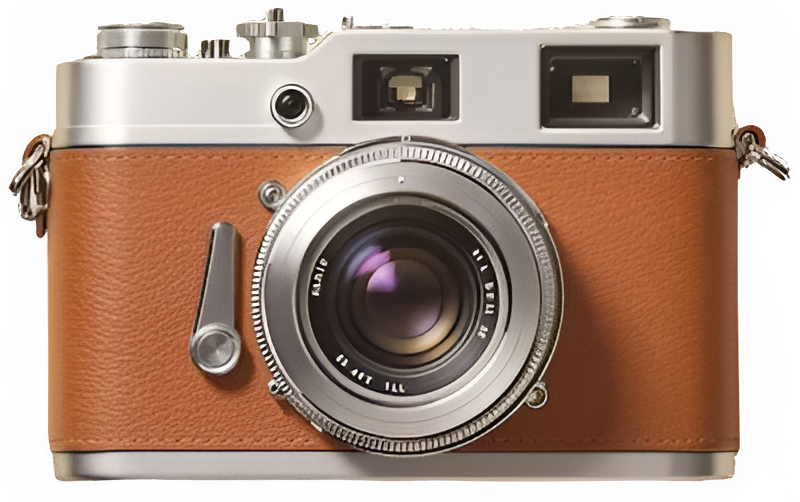
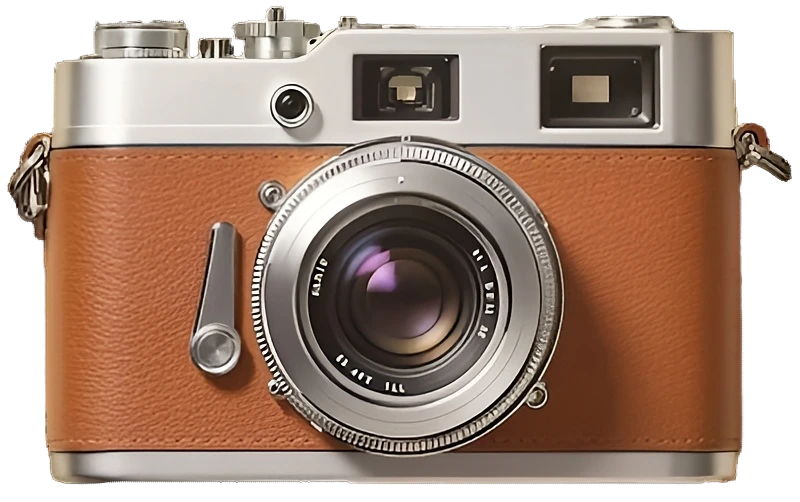
16:27

diff --git a/src/assets/Components/Landing.jsx b/src/assets/Components/Landing.jsx
@@ -26,15 +26,17 @@ function Landing() {
 
     // Initialize Lenis smooth scrolling
     const lenis = new Lenis({
-      duration: 1.2,
-      easing: (t) => Math.min(1, 1.001 - Math.pow(2, -10 * t)),
+      duration: 2.3,
+      easing: (t) => Math.min(1, 1.001 - Math.pow(2, -8 * t)),
       direction: 'vertical',
       gestureDirection: 'vertical',
       smooth: true,
-      mouseMultiplier: 1,
+      mouseMultiplier: 0.8,
       smoothTouch: false,
-      touchMultiplier: 2,
+      touchMultiplier: 1.5,
       infinite: false,
+      syncTouch: true,
+      normalizeWheel: true,
     })
 
     // Connect Lenis with GSAP ScrollTrigger
@@ -64,8 +66,8 @@ function Landing() {
     gsap.timeline({
       scrollTrigger: {
         trigger: document.body,
-        start: "top 30%",
-        end: "45% bottom",
+        start: "top 40%",
+        end: "43% bottom", // Adjusted for footer content
         scrub: 1,
         onUpdate: (self) => {
           const progress = self.progress
@@ -86,33 +88,47 @@ function Landing() {
             
             yPosition = easedProgress * (window.innerHeight * 0.8) 
             rotation = 50 + (easedProgress * 40) 
-            scale = 1.1 + (easedProgress * 0.4) 
+            scale = 1.1 + (easedProgress * 0.2) 
             
           } else {
             const pageProgress = (progress - 0.66) / 0.34
             const easedProgress = pageProgress * pageProgress * (3 - 2 * pageProgress)
             
-            yPosition = (window.innerHeight * 0.8) + (easedProgress * (window.innerHeight * 0.6)) 
+            yPosition = (window.innerHeight * 0.8) + (easedProgress * (window.innerHeight * 0.7)) 
             rotation = 90 + (easedProgress * -(40)) 
-            scale = 1.5 - (easedProgress * 0.3) 
+            scale = 1.3 - (easedProgress * 0.3) 
             
             const xPosition = -(easedProgress * (window.innerWidth * 0.3)) 
+            
+            // Calculate dynamic shadow based on position and rotation
+            const shadowIntensity = 0.15 + (progress * 0.25) // Shadow gets stronger as we scroll
+            const shadowBlur = 15 + (scale * 20) // Blur increases with scale
+            const shadowOffsetX = Math.sin(rotation * Math.PI / 180) * 15 // Shadow follows rotation
+            const shadowOffsetY = 10 + (yPosition * 0.01) // Shadow increases with height
             
             gsap.set(mainCam, {
               x: xPosition, 
               y: yPosition,
               rotation: rotation,
               scale: scale,
+              filter: `drop-shadow(${shadowOffsetX}px ${shadowOffsetY}px ${shadowBlur}px rgba(0, 0, 0, ${shadowIntensity}))`,
               ease: "none"
             })
             return 
           }
+          
+          // Calculate dynamic shadow for first two phases
+          const shadowIntensity = 0.15 + (progress * 0.25)
+          const shadowBlur = 15 + (scale * 20)
+          const shadowOffsetX = Math.sin(rotation * Math.PI / 180) * 15
+          const shadowOffsetY = 10 + (yPosition * 0.01)
           
           gsap.set(mainCam, {
             x: 0,
             y: yPosition,
             rotation: rotation,
             scale: scale,
+            filter: `drop-shadow(${shadowOffsetX}px ${shadowOffsetY}px ${shadowBlur}px rgba(0, 0, 0, ${shadowIntensity}))`,
             ease: "none" 
           })
         }
@@ -122,31 +138,62 @@ function Landing() {
     gsap.timeline({
       scrollTrigger: {
         trigger: document.body,
-        start: "50% bottom", 
-        end: "100% bottom", 
+        start: "43% bottom",
+        end: "85% bottom", 
         scrub: 1,
         onUpdate: (self) => {
           const progress = self.progress
-          const easedProgress = progress * progress * (3 - 2 * progress)
           
           const startX = -(window.innerWidth * 0.3) 
-          const startY = window.innerHeight * 1.4 
+          const startY = window.innerHeight * 1.5 
           const startRotation = 50 
-          const startScale = 1.2 
+          const startScale = 1 
+          
+          const middleX = 0
+          const middleY = window.innerHeight * 2.6
+          const middleRotation = 0
+          const middleScale = 1.4
           
           const targetX = -50 
-          const targetY = window.innerHeight * 3.88 
+          const targetY = window.innerHeight * 4 
           const targetRotation = 0 
           const targetScale = 0.9 
           
-        
-          gsap.set(mainCam, {
-            x: startX + (easedProgress * (targetX - startX)),
-            y: startY + (easedProgress * (targetY - startY)),
-            rotation: startRotation + (easedProgress * (targetRotation - startRotation)),
-            scale: startScale + (easedProgress * (targetScale - startScale)),
-            ease: "none"
-          })
+          if (progress <= 0.5) {
+            const phaseProgress = progress / 0.5
+            const easedProgress = phaseProgress * phaseProgress * (3 - 2 * phaseProgress)
+            
+            const shadowIntensity = 0.4 + (phaseProgress * 0.2)
+            const shadowBlur = 25 + (middleScale * 15)
+            const shadowOffsetX = Math.sin(startRotation * (1 - easedProgress) * Math.PI / 180) * 20
+            const shadowOffsetY = 15 + (easedProgress * 10)
+            
+            gsap.set(mainCam, {
+              x: startX + (easedProgress * (middleX - startX)),
+              y: startY + (easedProgress * (middleY - startY)),
+              rotation: startRotation + (easedProgress * (middleRotation - startRotation)),
+              scale: startScale + (easedProgress * (middleScale - startScale)),
+              filter: `drop-shadow(${shadowOffsetX}px ${shadowOffsetY}px ${shadowBlur}px rgba(0, 0, 0, ${shadowIntensity}))`,
+              ease: "none"
+            })
+          } else {
+            const phaseProgress = (progress - 0.5) / 0.5
+            const easedProgress = phaseProgress * phaseProgress * (3 - 2 * phaseProgress)
+            
+            const shadowIntensity = 0.6 - (phaseProgress * 0.2)
+            const shadowBlur = 40 - (phaseProgress * 15)
+            const shadowOffsetX = -10 + (phaseProgress * -5)
+            const shadowOffsetY = 25 + (phaseProgress * 10)
+            
+            gsap.set(mainCam, {
+              x: middleX + (easedProgress * (targetX - middleX)),
+              y: middleY + (easedProgress * (targetY - middleY)),
+              rotation: middleRotation + (easedProgress * (targetRotation - middleRotation)),
+              scale: middleScale + (easedProgress * (targetScale - middleScale)),
+              filter: `drop-shadow(${shadowOffsetX}px ${shadowOffsetY}px ${shadowBlur}px rgba(0, 0, 0, ${shadowIntensity}))`,
+              ease: "none"
+            })
+          }
         }
       }
     })

diff --git a/src/assets/Components/ThirdPage.jsx b/src/assets/Components/ThirdPage.jsx
@@ -1,14 +1,15 @@
 import React from 'react'
-import image1 from '../image1.webp'
+import image1 from '../image1.png'
 import Image2 from '../image2.webp'
-import Image3 from '../image3.jpeg'
+import Image3 from '../image3.png'
+import Image4 from '../image4.png'
 
 function ThirdPage() {
   return (
     <div className='third-page bg-[#F3E4D3] px-16 '>
       <h1 className='uppercase text-center w-full tracking-wider text-[250px] font-bold text-[#80320b] font-["bystander"]'>retroscope</h1>
       <div className="box1 flex justify-between">
-        <div className="image w-92 h-72 ">
+        <div className="image w-122 h-82 ">
           <img className='w-full h-full object-cover rounded-2xl' src={image1} alt="" />
         </div>
         <div className="right w-1/4 flex flex-col gap-4">
@@ -18,17 +19,17 @@ function ThirdPage() {
           <p className='font-semibold'>Lorem ipsum dolor sit amet consectetur adipisicing elit. Nisi at, et corporis alias praesentium adipisci, voluptatum fugiat voluptas, asperiores iure vitae. Optio, asperiores dolor voluptate fuga facere id repellendus vel?</p>
         </div>
       </div>
-     <div className="box2 flex justify-between w-full mt-10">
-          <div className="image2 w-82 h-62 shadow-lg -rotate-12 overflow-hidden rounded-2xl">
-            <img src={Image2} alt="" className='w-full h-full object-cover rounded-2xl' />
+     <div className="box2 flex justify-between w-full mt-20">
+          <div className="image2 w-112 h-78 shadow-lg -rotate-12 overflow-hidden rounded-xl">
+            <img src={Image2} alt="" className='w-full h-full object-cover rounded-xl' />
           </div>
-                 <div className="image2 mt-32 w-92 h-72 shadow-lg -rotate-9 overflow-hidden rounded-2xl">
+                 <div className="image2 mt-32 w-118 h-85 shadow-lg -rotate-9 overflow-hidden rounded-2xl">
             <img src={Image3} alt="" className='w-full h-full object-cover rounded-2xl' />
           </div>
      </div>
      <div className="box mt-64 ml-62">
-               <div className="image2 mt-32 w-82 h-72 shadow-lg rotate-18 overflow-hidden rounded-2xl">
-            <img src={Image3} alt="" className='w-full h-full object-cover rounded-2xl' />
+               <div className="image2 mt-32 w-92 h-72 shadow-lg rotate-18 overflow-hidden rounded-2xl">
+            <img src={Image4} alt="" className='w-full h-full object-cover rounded-2xl' />
           </div>
 
      </div>

diff --git a/src/assets/Components/Footer.jsx b/src/assets/Components/Footer.jsx
@@ -1,0 +1,24 @@
+import React from 'react'
+import foot from '../image1.png'
+
+function Footer() {
+  return (
+    <div className='bg-[#F3E4D3] h-[80vh] flex w-full py-4 gap-12 px-8'>
+     <div className="image w-1/2 h-full ">
+     <img className='object-cover w-full h-full border-12 border-white rounded-2xl  overflow-hidden' src={foot} alt="" />
+     </div>
+     <div className="info w-1/2 h-full flex flex-col">
+     <p className='font-["strange"] text-2xl'>Other Models</p>
+     <div className="rethink leading-0 tracking-wider">
+        <h1 className='uppercase text-9xl font-["bystander"] font-semibold leading-20'>rethink</h1>
+        <h1 className='uppercase text-9xl font-["bystander"] font-semibold leading-none'>canvas</h1>
+     </div>
+     <p className='mt-12 font-semibold'>Lorem ipsum dolor sit amet consectetur adipisicing elit. Debitis, magnam tenetur perspiciatis magni repellendus dolorem, ipsum ullam laborum ad voluptates eum, possimus officiis in! Perspiciatis ab exercitationem ratione molestiae dolorum.
+     Eius excepturi iusto dicta aliquam unde eum iste. Omnis exercitationem non recusandae in maiores facere Lorem ipsum dolor sit amet consectetur, adipisicing elit. Odit atque dolorem beatae animi, facere nihil dolore id corporis adipisci illum? Cum labore soluta facere in, corporis deserunt illo similique fugit. delectus sint, dolorem esse, molestias neque, vel aspernatur. Explicabo impedit vero praesentium blanditiis repudiandae rem.</p>
+     <p className='mt-12 font-semibold'>Lorem ipsum dolor sit amet, consectetur adipisicing elit. Numquam, dolorem Lorem ipsum dolor sit amet consectetur adipisicing elit. Iste, natus sed odio harum vero enim suscipit dolorum laudantium, assumenda doloremque voluptatem dolor! A voluptatibus eaque iste sit sint eius id! fuga voluptas delectus enim error reprehenderit tenetur quasi quam eaque explicabo voluptatum, mollitia exercitationem sequi a. Eius vitae est dolorem.</p>
+     </div>
+    </div>
+  )
+}
+
+export default Footer

diff --git a/src/assets/Components/Fourthpage.jsx b/src/assets/Components/Fourthpage.jsx
@@ -1,6 +1,7 @@
 import React from 'react'
 import Ccam1 from '../ccam1.jpg'
 import Ccam3 from '../ccam3.jpg'
+import Image6 from '../image6.png'
 
 function Fourthpage() {
   return (
@@ -17,12 +18,12 @@ function Fourthpage() {
     </div>
         <div className="image2 h-82 w-98 flex flex-col">
         <img className='object-cover h-full w-full opacity-0' src={Ccam1} alt="" />
-        <h1 className='text-center text-xl font-bold font-["bystander"]'>INTAX moon Eve</h1>
+        <h1 className='text-center text-xl font-bold font-["bystander"]'>INTAX fujifilm</h1>
         <p className='text-center text-lg font-bold font-["bystander"]'>$500.00</p>
     </div>
-        <div className="image3 h-82 w-98 flex flex-col">
-        <img className='object-cover h-full w-full' src={Ccam3} alt="" />
-        <h1 className='text-center text-xl font-bold font-["bystander"]'>INTAX moon Eve</h1>
+        <div className="image3 h-112 w-98 flex flex-col mt-[-70px]">
+        <img className='object-cover h-full w-full' src={Image6} alt="" />
+        <h1 className='text-center text-xl font-bold font-["bystander"]'>INTAX polaroid</h1>
         <p className='text-center text-lg font-bold font-["bystander"]'>$500.00</p>
     </div>
 

diff --git a/src/App.jsx b/src/App.jsx
@@ -2,6 +2,7 @@ import Fourthpage from './assets/Components/Fourthpage.jsx'
 import Landing from './assets/Components/Landing.jsx'
 import SecondPage from './assets/Components/SecondPage.jsx'
 import ThirdPage from './assets/Components/ThirdPage.jsx'
+import Footer from './assets/Components/Footer.jsx'
 function App() {
   return (
     <>
@@ -9,6 +10,7 @@ function App() {
       <SecondPage />
       <ThirdPage/>
       <Fourthpage/>
+      <Footer/>
     </>
   )
 }

diff --git a/src/index.css b/src/index.css
@@ -3,6 +3,12 @@ html, body {
   overflow-x: hidden;
 }
 
+/* Camera shadow styles for realistic depth */
+.mainCam {
+  filter: drop-shadow(0 10px 25px rgba(0, 0, 0, 0.7));
+  transition: filter 0.1s ease-out;
+}
+
 @font-face {
   font-family:"bystander" ;  src: url( ./assets/bystand.ttf);
 }
